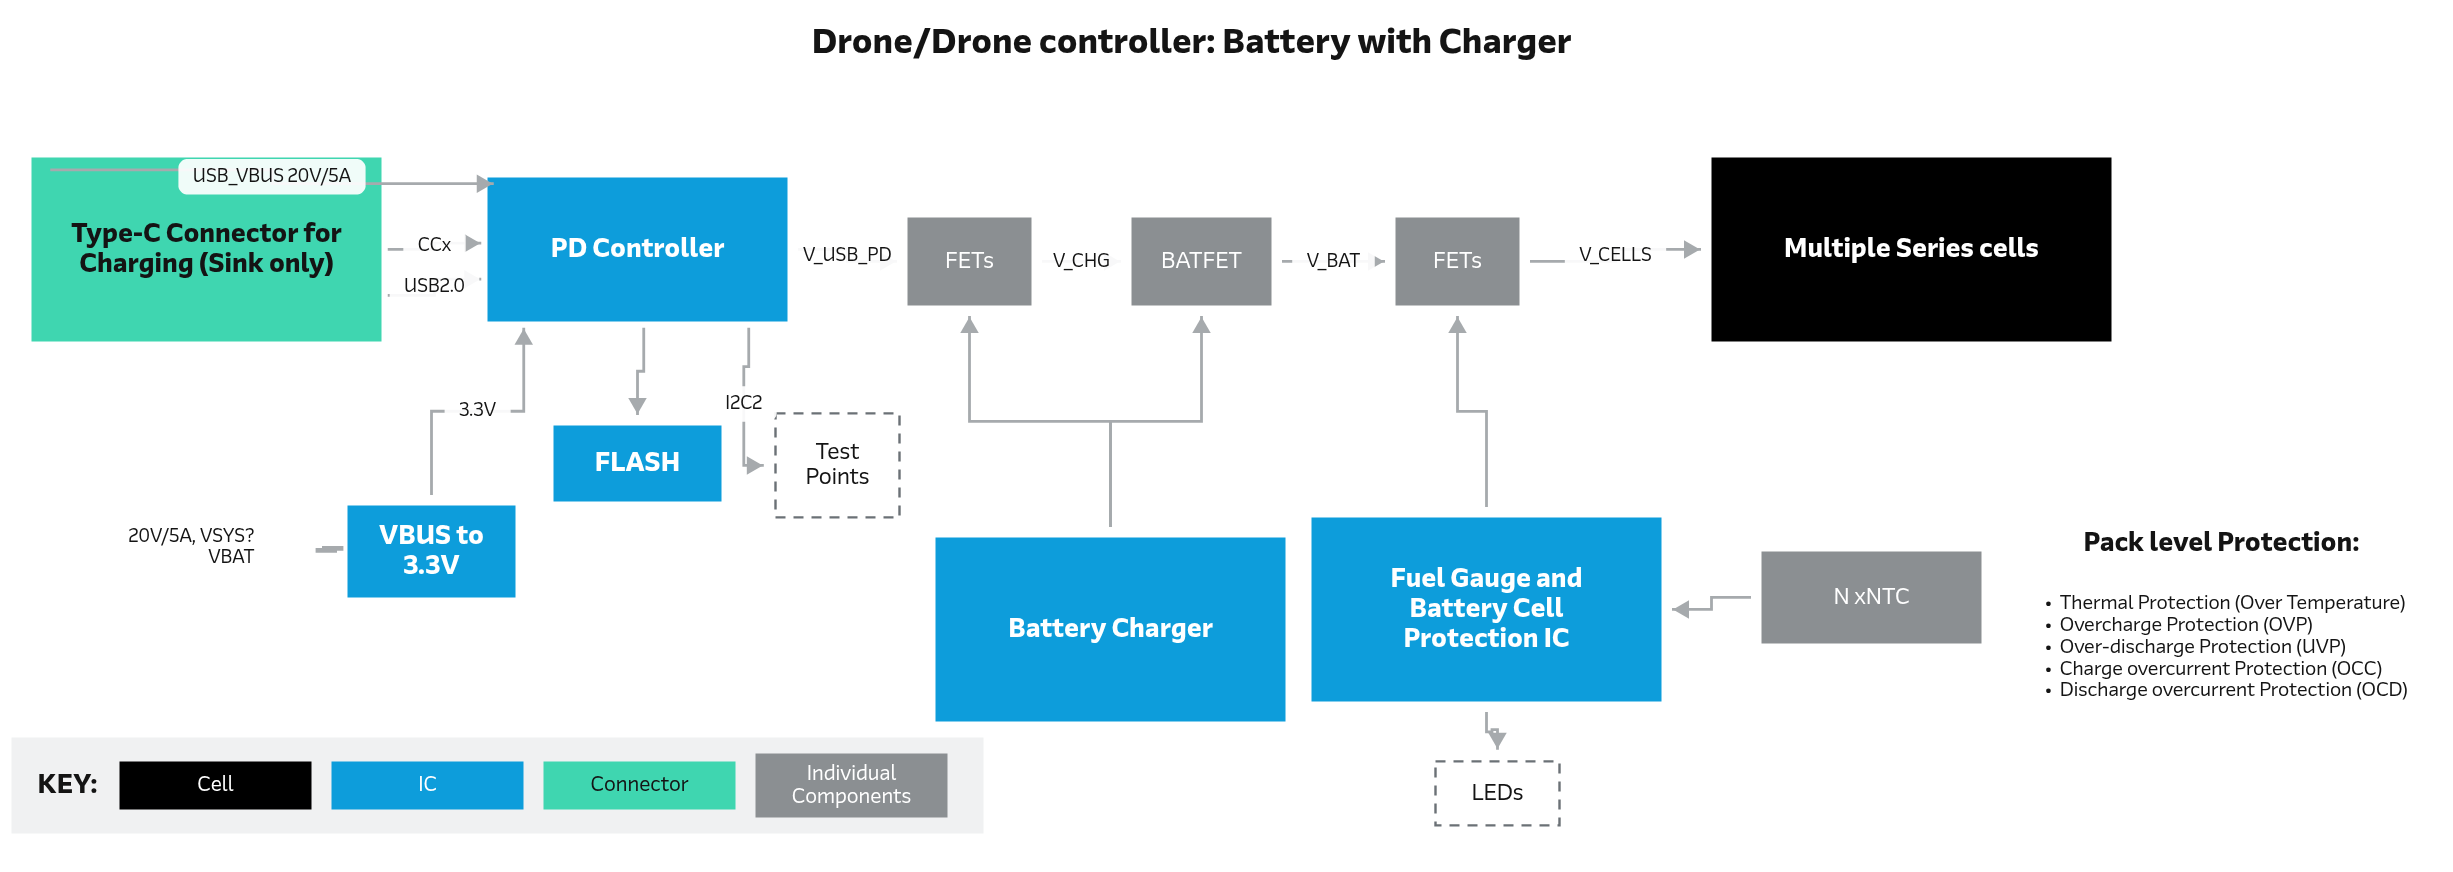
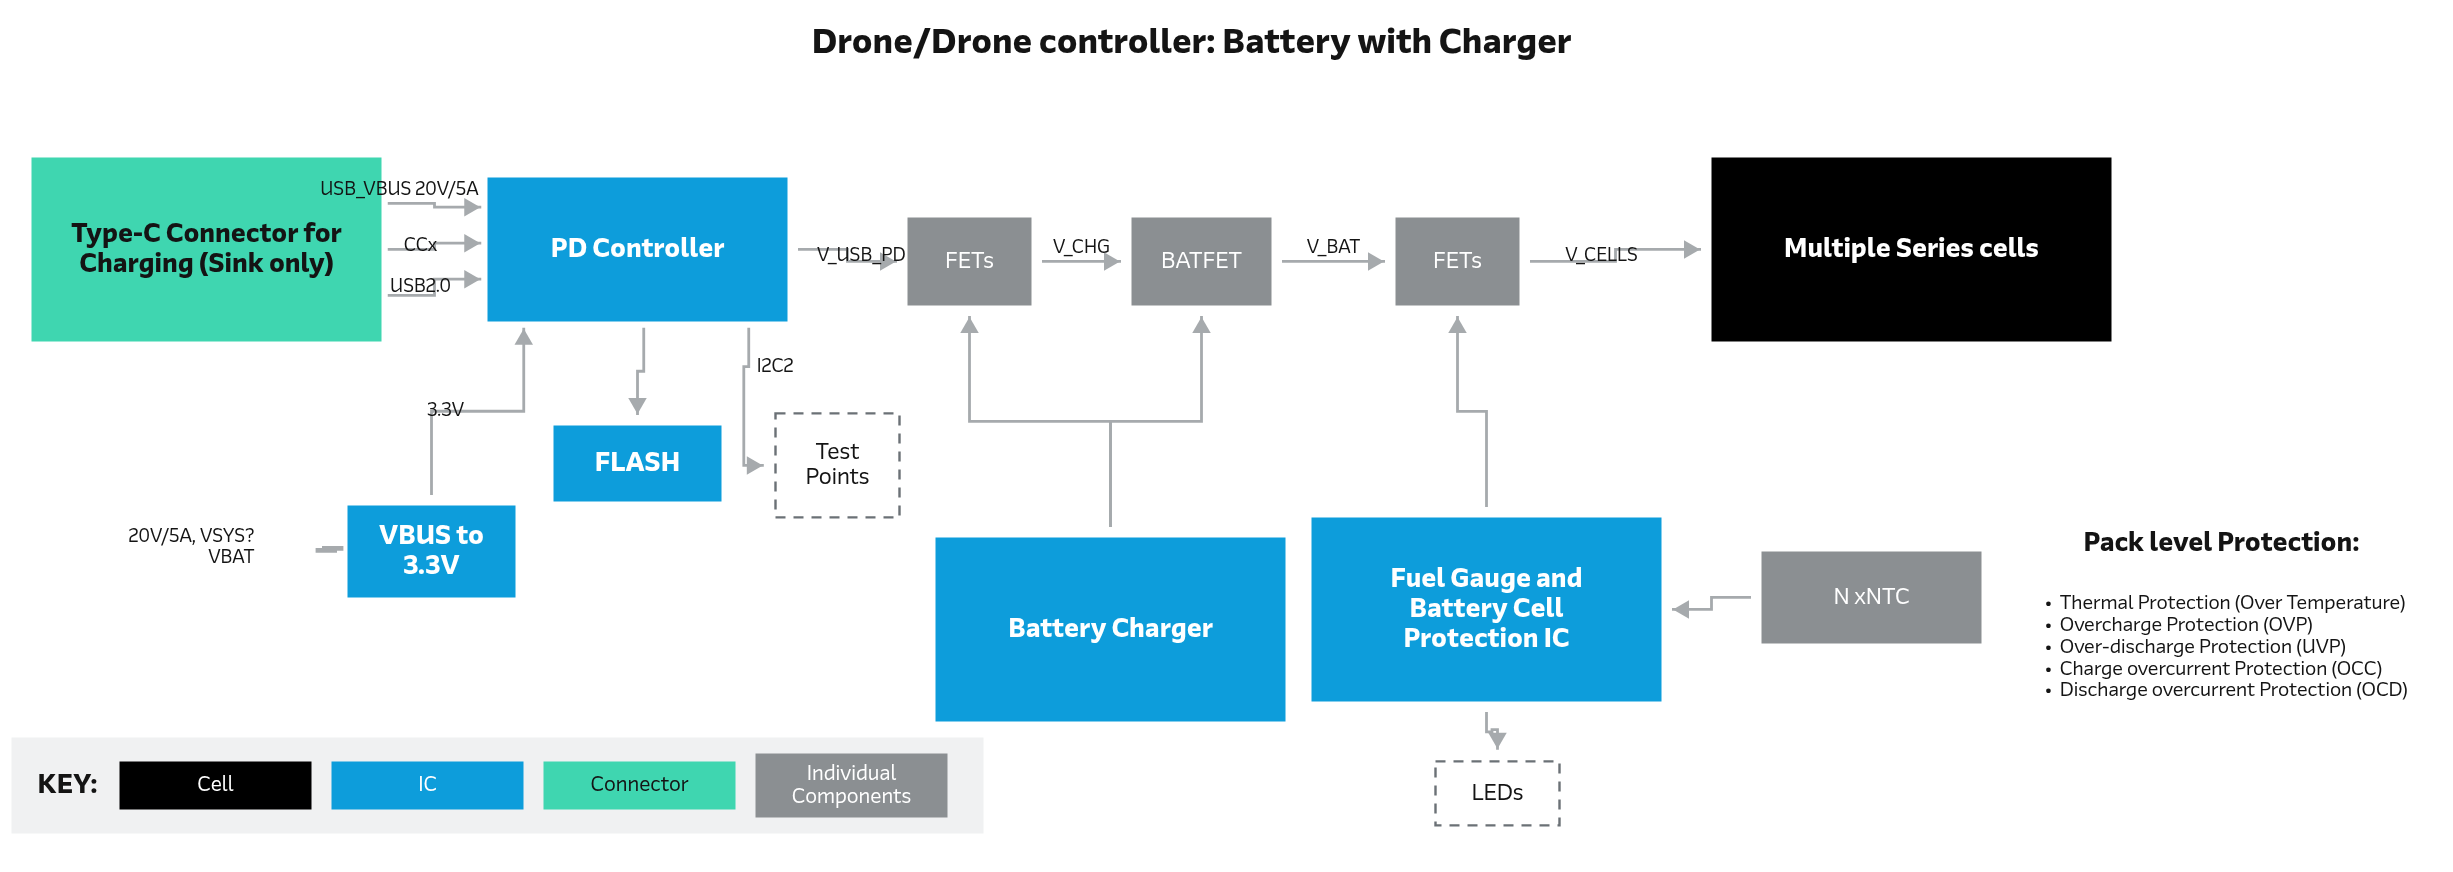
Place net labels on the wire instead of on the blocks
Link labels were pinned to the midpoint of the run with a white plate behind
them. On a short segment between two blocks that puts the name on top of one of
them, and the plate punches a hole in whatever it covers.

The label's position along the wire is now data-driven — `textFraction`,
`textSegment` and `textOffset` — so a net name can slide along the run and lift
clear of the line. Diagrams 2 and 3 set the offset instead of carrying a plate,
which is also how the source artwork reads: plain text sitting above the wire.

The first attempt at this changed nothing, because the string it searched for in
the render harness spanned two lines and the file has it on one, so the bindings
were never added and every label kept its default placement. Worth stating: the
generator reported success both times.

diff --git a/diagram-poc/frontend/src/app/features/gojs-editor/gojs-editor.component.ts b/diagram-poc/frontend/src/app/features/gojs-editor/gojs-editor.component.ts
@@ -993,6 +993,12 @@ export class GojsEditorComponent implements OnInit, AfterViewInit, OnDestroy {
       $(go.Panel, 'Auto',
         { segmentIndex: NaN, segmentFraction: 0.5, visible: false },
         new go.Binding('visible', 'text', (t) => !!t),
+        // Where the label sits on the wire. A net name centred on a short
+        // segment lands on top of the blocks at either end, so an imported
+        // drawing needs to be able to slide it along the run and lift it clear.
+        new go.Binding('segmentFraction', 'textFraction'),
+        new go.Binding('segmentIndex', 'textSegment'),
+        new go.Binding('segmentOffset', 'textOffset', go.Point.parse),
         $(go.Shape, 'RoundedRectangle', { parameter1: 4, fill: 'rgba(14,15,17,0.75)', stroke: null },
           new go.Binding('fill', 'textBg')),
         $(go.TextBlock, { font: '600 10px Roboto, sans-serif', stroke: '#e2e8f0', editable: true,

diff --git a/diagram-poc/samples/drone/render-harness.html b/diagram-poc/samples/drone/render-harness.html
@@ -151,6 +151,9 @@ window.buildDiagram = function(modelJson, geo) {
       new go.Binding('scale','arrowScale')),
     $(go.Panel,'Auto',{ segmentIndex:NaN, segmentFraction:0.5, visible:false },
       new go.Binding('visible','text',(t)=>!!t),
+      new go.Binding('segmentFraction','textFraction'),
+      new go.Binding('segmentIndex','textSegment'),
+      new go.Binding('segmentOffset','textOffset',go.Point.parse),
       $(go.Shape,'RoundedRectangle',{ parameter1:4, fill:'rgba(255,255,255,0.9)', stroke:null },
         new go.Binding('fill','textBg')),
       $(go.TextBlock,{ font:'600 10px Roboto, sans-serif', stroke:'#334155', margin:new go.Margin(1.5,5,1.5,5) },
